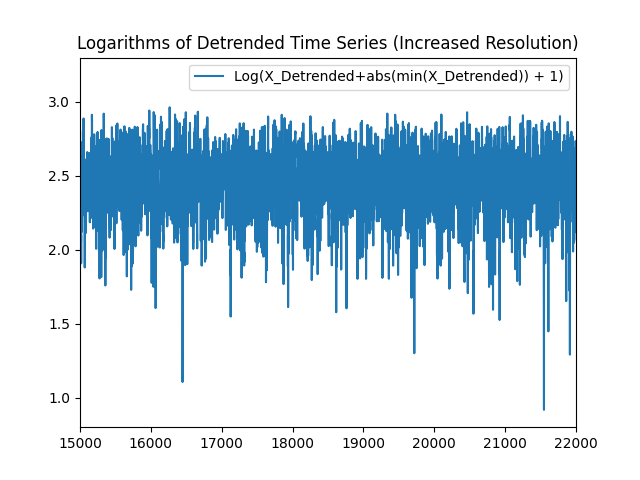
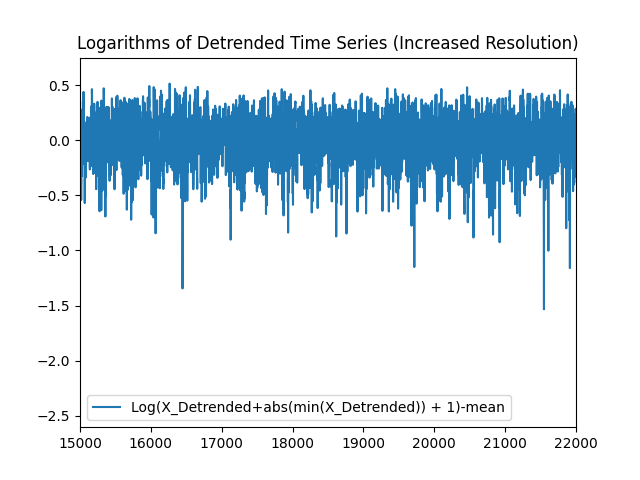
Read Time Series

diff --git a/LinearAnalysisFunctions.py b/LinearAnalysisFunctions.py
@@ -1,6 +1,6 @@
-from statsmodels.graphics.tsaplots import plot_acf, plot_pacf
 from statsmodels.stats.diagnostic import acorr_ljungbox
-from statsmodels.tsa.stattools import acf
+from statsmodels.tsa.stattools import acf, pacf
+from statsmodels.tsa.arima.model import ARIMA
 import matplotlib.pyplot as plt
 from scipy.stats import norm
 import numpy as np
@@ -80,6 +80,26 @@ def get_acf(x, lags=10, alpha=0.05, show=True):
     return acfv
 
 
+# Calculate pacf of timeseries xV to lag (lags) and show figure with confidence interval with (alpha).
+def get_pacf(xv, lags=10, alpha=0.05, show=True):
+
+    pacfv = pacf(xv, nlags=lags)[1:]
+    z_inv = norm.ppf(1 - alpha / 2)
+    upperbound95 = z_inv / np.sqrt(xv.shape[0])
+    lowerbound95 = -upperbound95
+    if show:
+        fig, ax = plt.subplots(1, 1, figsize=(14, 8))
+        ax.plot(np.arange(1, lags + 1), pacfv, marker='o')
+        ax.axhline(upperbound95, linestyle='--', color='red', label=f'Conf. Int {(1 - alpha) * 100}%')
+        ax.axhline(lowerbound95, linestyle='--', color='red')
+        ax.set_title('PACF')
+        ax.set_xlabel('Lag')
+        ax.set_xticks(np.arange(1, lags + 1))
+        ax.grid(linestyle='--', linewidth=0.5, alpha=0.15)
+        ax.legend()
+    return pacfv
+
+
 # # Computes the periodic time series comprised of repetetive patterns of seasonal components given a time series and
 # # the season (period).
 # def seasonal_components(x, period):
@@ -110,3 +130,72 @@ def portmanteau_test(xv, maxtau, show=False):
         plt.show()
     return ljung_val, ljung_pval
 
+
+# Fit ARIMA(p, d, q) in xv returns: summary (table), fittedvalues, residuals, model, AIC.
+def fit_arima_model(x, p, q, d=0, show=False):
+
+    model = ARIMA(x, order=(p, d, q)).fit()
+    summary = model.summary()
+    fittedvalues = model.fittedvalues
+    fittedvalues = np.array(fittedvalues).reshape(-1, 1)
+    resid = model.resid
+    if show:
+        fig, ax = plt.subplots(1, 1, figsize=(14, 8))
+        ax.plot(x, label='Original', color='blue')
+        ax.plot(fittedvalues, label='FittedValues', color='red', linestyle='--', alpha=0.9)
+        ax.legend()
+        ax.set_title(f'ARIMA({p}, {d}, {q})')
+        fig, ax = plt.subplots(2, 1, figsize=(14, 8))
+        ax[0].hist(resid, label='Residual')
+        ax[1].scatter(np.arange(len(resid)), resid)
+        plt.title('Residuals')
+        plt.legend()
+    return summary, fittedvalues, resid, model, model.aic
+
+
+# Calculate fitting error with NRMSE for given model in timeseries xv till prediction horizon Tmax. Returns: nrmsev
+# preds: for timesteps T=1, 2, 3.
+def calculate_fitting_error(xv, model, tmax=20, show=False):
+
+    nrmsev = np.full(shape=tmax, fill_value=np.nan)
+    nobs = len(xv)
+    xvstd = np.std(xv)
+    # vartar = np.sum((xv - np.mean(xv)) ** 2)
+    predm = []
+    tmin = np.max(
+        [len(model.arparams), len(model.maparams), 1])  # Start prediction after getting all lags needed from model.
+    for T in np.arange(1, tmax):
+        errors = []
+        predv = np.full(shape=nobs, fill_value=np.nan)
+        for t in np.arange(tmin, nobs - T):
+            pred_ = model.predict(start=t, end=t + T - 1, dynamic=True)
+            # predv.append(pred_[-1])
+            ytrue = xv[t + T - 1]
+            predv[t + T - 1] = pred_[-1]
+            error = pred_[-1] - ytrue
+            errors.append(error)
+        predm.append(predv)
+        errors = np.array(errors)
+        mse = np.mean(np.power(errors, 2))
+        rmse = np.sqrt(mse)
+        nrmsev[T] = (rmse / xvstd)
+        # nrmsev[T] = (np.sum(errors**2) / vartar)
+
+    if show:
+        fig, ax = plt.subplots(1, 1, figsize=(14, 8))
+        ax.plot(np.arange(1, tmax), nrmsev[1:], marker='x', label='NRMSE')
+        ax.axhline(1, color='red', linestyle='--')
+        ax.set_title('Fitting Error')
+        ax.legend()
+        ax.set_xlabel('T')
+        ax.set_xticks(np.arange(1, tmax))
+        plt.show()
+        # Plot multistep prediction for T=1, 2, 3
+        fig, ax = plt.subplots(1, 1, figsize=(14, 8))
+        ax.plot(xv, label='original')
+        colors = ['red', 'green', 'black']
+        for i, preds in enumerate(predm[:3]):
+            ax.plot(preds, color=colors[i], linestyle='--', label=f'T={i + 1}', alpha=0.7)
+        ax.legend(loc='best')
+        plt.show()
+    return nrmsev, predm

diff --git a/DublinAirportAvgTempLinearAnalysis.py b/DublinAirportAvgTempLinearAnalysis.py
@@ -1,7 +1,6 @@
 # Imports.
-import LinearAnalysisFunctions as lf
-from statsmodels.tsa.seasonal import seasonal_decompose
 from statsmodels.graphics.tsaplots import plot_acf, plot_pacf
+import LinearAnalysisFunctions as lf
 import matplotlib.pyplot as plt
 import pmdarima as pm
 import datetime as dt
@@ -184,18 +183,18 @@ mas = x - ma
 # for i in range(7, len(varis1), 9):
 #     print(varis1[i])
 fd = np.log(mas + abs(min(mas)) + 1)
+fd = fd - fd.mean()
 # plt.plot(fd, linestyle='--')
-# plt.legend(['Log(X_Detrended+abs(min(X_Detrended)) + 1)'])
+# plt.legend(['Log(X_Detrended+abs(min(X_Detrended)) + 1)-mean'])
 # title = 'Logarithms of Detrended Average Temperature Time Series'
 # plt.title(title, x=0.5, y=1.0)
 # plt.savefig(f'{savepath}/{title}.png')
 # plt.show()
 # plt.plot(fd)
-# plt.legend(['Log(X_Detrended+abs(min(X_Detrended)) + 1)'])
+# plt.legend(['Log(X_Detrended+abs(min(X_Detrended)) + 1)-mean'])
 # title = 'Logarithms of Detrended Time Series (Increased Resolution)'
 # plt.title(title, x=0.5, y=1.0)
 # plt.xlim(15000, 22000)
-# plt.ylim(0.8, 3.3)
 # plt.savefig(f'{savepath}/{title}.png')
 # plt.show()
 # split2 = np.array_split(fd, 80)
@@ -205,7 +204,7 @@ fd = np.log(mas + abs(min(mas)) + 1)
 # print("\nYearly Variance of Logarithms of Detrended Average Temperature Time Series:\n")
 # for i in range(7, len(varis2), 9):
 #     print(varis2[i])
-
+#
 # # Print Yearly Mean Average Temperature of Logs of detrended time series.
 # fd_year = []
 # years = 80
@@ -219,12 +218,12 @@ fd = np.log(mas + abs(min(mas)) + 1)
 # print("Yearly Mean of Logarithms of Detrended Average Temperature Time Series:\n")
 # for i in range(0, len(fd_year), 9):
 #     print(fd_year[i])
-#
+
 # # Remove Seasonality (There is no Seasonality).
 #
 # # Hypothesis test for white noise after Detrending with MA (92) and taking the logs.
 # # Autocorrelation.
-# maxtau = 3
+maxtau = 3
 # acvf = lf.get_acf(fd, lags=maxtau)
 # title = 'Autocorrelation for log(X_detrended)'
 # plt.title(title, x=0.5, y=1.0)
@@ -232,4 +231,32 @@ fd = np.log(mas + abs(min(mas)) + 1)
 # plt.show()
 #
 # Model Adaption and Forecasting Single Step and Multistep.
+# ARMA Model.
+# Partial Autocorrelation Criterion for choosing model order.
+lf.get_pacf(fd, lags=maxtau)
+
+# # Akaike Information Criterion (AIC) for choosing model order.
+# best_aic = np.inf
+# best_p = None
+# best_q = None
+# for p in np.arange(1, 6, dtype=np.int):
+#     for q in np.arange(0, 6, dtype=np.int):
+#         try:
+#             _, _, _, _, aic = lf.fit_arima_model(x=fd, p=p, q=q, d=0, show=False)
+#         except ValueError as err:
+#             print(f'p:{p} - q:{q} - err:{err}')
+#             continue
+#         print(f'p:{p} - q:{q} - aic:{aic}')
+#         if aic < best_aic:
+#             best_p = p
+#             best_q = q
+#             best_aic = aic
+best_p = 1
+best_q = 3
+best_aic = -23921.22282779733
+print(f'AR order:{best_p}')
+print(f'MA order:{best_q}')
+print(f'Best AIC:{best_aic}')
+summary, fittedvalues, resid, model, aic = lf.fit_arima_model(x=fd, p=best_p, q=best_q, d=0, show=True)
+nrmseV, predM = lf.calculate_fitting_error(fd, model, tmax=10, show=True)
 
